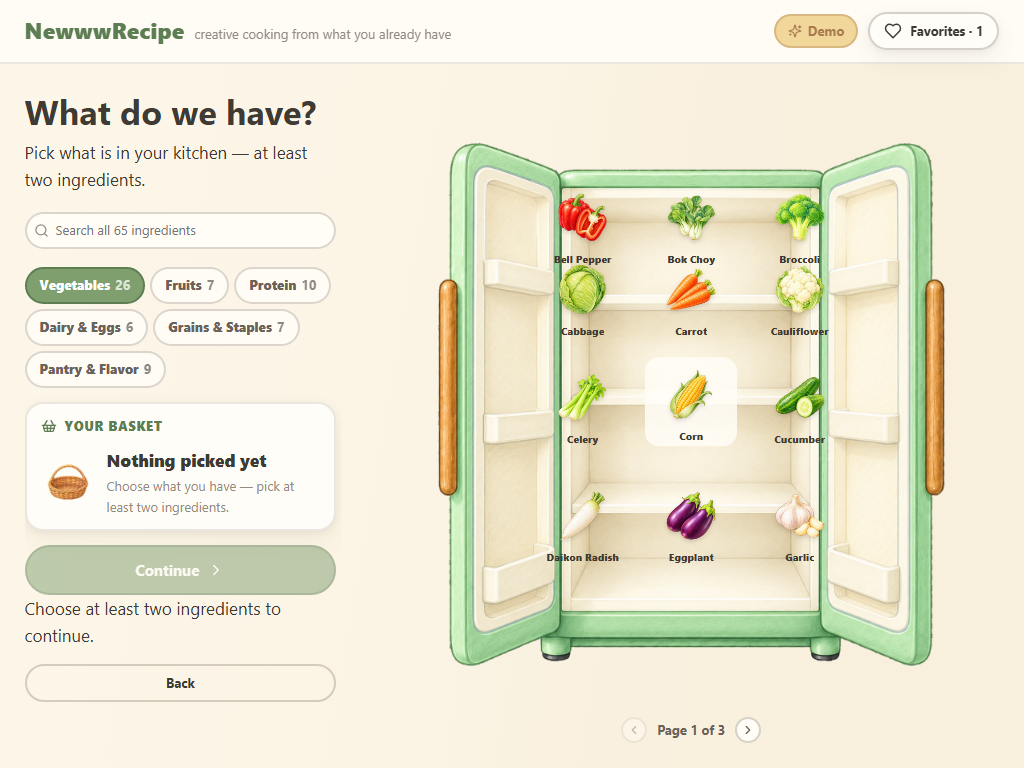
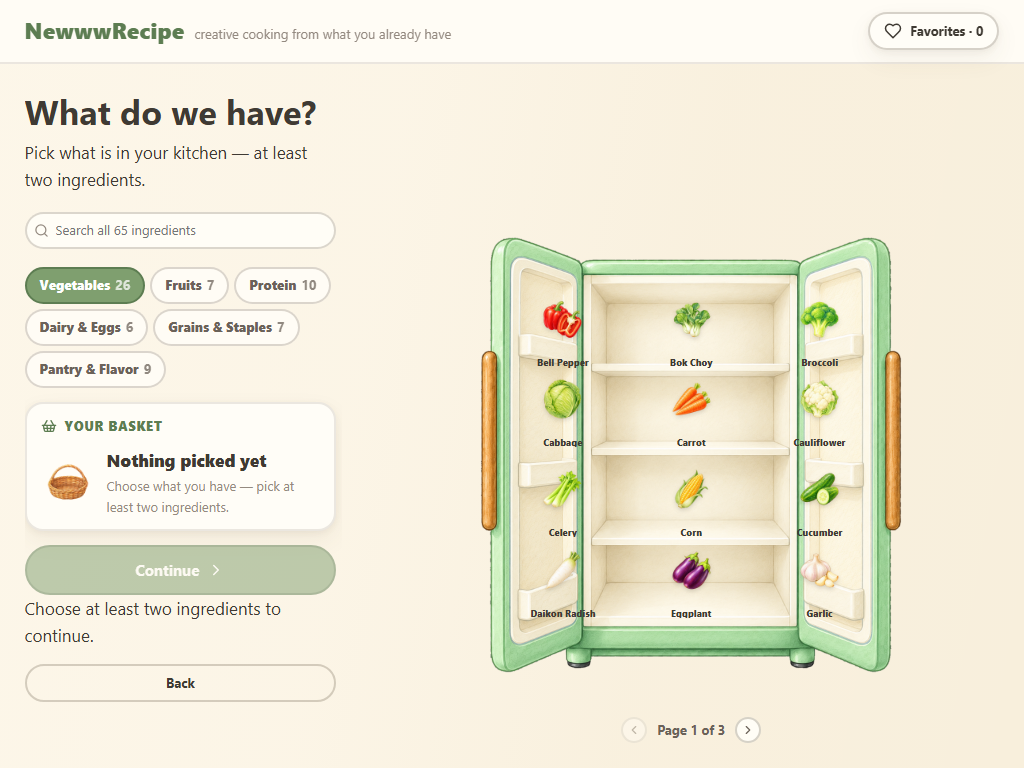
fix: align ingredients with refrigerator shelves
Replace the viewport-relative, letterboxed overlay with a single shared
coordinate system: a square 1:1 .fridge__frame wrapper renders the 1536x1536
fridge frames with object-fit:fill (no distortion), and .fridge__interior now
shares that same inset origin. Shelf anchor percentages (--shelf-1-y..4-y,
--cavity-left/right) were measured from the actual fridge_open_empty.png and
stored as named CSS custom properties.

Each of the four ingredient rows is bottom-anchored to its real shelf surface
(bottom: calc(100% - shelf_y + gap)) instead of being vertically centred on a
band, so art+label rest on the shelf with a small gap. Selected tiles keep an
identical layout box (box-sizing:border-box + inset ring; only the inner art
img scales subtly), so Chicken no longer grows or shifts. The same shelf
mapping is reused in Preferences.

Verification: Playwright geometric checks at 1440x900 and 1024x768 confirm
every row bottom edge matches its measured shelf surface (delta 0), 12 tiles
per page, and unchanged selection geometry; 31 frontend + 124 python tests
pass; typecheck/lint/build clean with no asset warnings.

Changed region(s): [[0.4062, 0.1875, 0.9375, 0.875], [0.75, 0.0, 0.8438, 0.0625]]

diff --git a/web/src/styles/global.css b/web/src/styles/global.css
@@ -332,14 +332,17 @@ button {
   min-width: 0;
 }
 
-/* All three frames share one bottom-centre anchor so the sequence never jumps. */
+/* Sized to the square frame so the glow pool and hit area track the artwork
+   exactly. The square .fridge__frame inside defines the real box. */
 .fridge-button {
   position: relative;
-  width: 100%;
-  height: 100%;
+  display: block;
+  width: var(--fridge-size);
+  max-width: 100%;
   padding: 0;
   background: none;
   border: 0;
+  line-height: 0;
   cursor: pointer;
 }
 
@@ -349,13 +352,10 @@ button {
 
 .fridge-frame {
   position: absolute;
-  bottom: 0;
-  left: 50%;
+  inset: 0;
   width: 100%;
   height: 100%;
-  object-fit: contain;
-  object-position: bottom center;
-  transform: translateX(-50%) scale(1);
+  object-fit: fill;
   opacity: 0;
   transition:
     opacity 260ms ease,
@@ -365,15 +365,15 @@ button {
 
 .fridge-frame.is-active {
   opacity: 1;
-  transform: translateX(-50%) scale(1);
+  transform: scale(1);
 }
 
 .fridge-frame--closed.is-active {
-  transform: translateX(-50%) scale(1);
+  transform: scale(1);
 }
 
 .fridge-frame--ajar.is-active {
-  transform: translateX(-50%) scale(1.015);
+  transform: scale(1.015);
 }
 
 .fridge-button:not(.is-open)::after {
@@ -404,7 +404,7 @@ button {
 
 .fridge-button:not(.is-open):hover .fridge-frame--closed.is-active,
 .fridge-button:not(.is-open):focus-visible .fridge-frame--closed.is-active {
-  transform: translateX(-50%) scale(1.03);
+  transform: scale(1.03);
 }
 
 .fridge-button:not(.is-open):hover {
@@ -428,16 +428,31 @@ button {
   }
 }
 
-/* The ingredient overlay is clipped to the illustrated cavity of fridge_open_empty.png.
-   Calibrated from the 1536x1536 source: cavity x 0.07->0.93, y 0.09->0.89; the four shelf
-   bands sit at image-y 0.226 / 0.343 / 0.518 / 0.712 (-> 17.2% / 31.7% / 53.5% / 77.5% of the
-   interior box). Everything inside is hidden until the fridge is open. */
+/* Square 1:1 stage that the rendered frames and the ingredient overlay share.
+   All three source PNGs are 1536x1536, so a square box + object-fit:fill maps
+   image pixels 1:1 onto the overlay's percentage coordinate system (no
+   letterboxing, no distortion). Shelf anchors below were measured from the
+   actual fridge_open_empty.png, expressed as full-image percentages:
+     cavity x: 9% -> 91%   shelf boards (image-y): 36.20 / 51.69 / 69.27 / 85.16 %
+   See the alignment fix commit for the measurement method. */
+.fridge__frame {
+  --cavity-left: 9%;
+  --cavity-right: 9%;
+  --shelf-1-y: 36.20%;
+  --shelf-2-y: 51.69%;
+  --shelf-3-y: 69.27%;
+  --shelf-4-y: 85.16%;
+  --shelf-gap: 1.4%;
+  --tile-art-h: calc(var(--fridge-size) * 0.10);
+  --tile-name-fs: calc(var(--fridge-size) * 0.018);
+  position: relative;
+  width: 100%;
+  aspect-ratio: 1 / 1;
+}
+
 .fridge__interior {
   position: absolute;
-  top: 9%;
-  bottom: 11%;
-  left: 7%;
-  right: 7%;
+  inset: 0;
   z-index: 3;
   opacity: 0;
   visibility: hidden;
@@ -752,51 +767,53 @@ button {
 
 .shelf__row {
   position: absolute;
-  left: 0;
-  right: 0;
+  left: var(--cavity-left);
+  right: var(--cavity-right);
   display: flex;
   justify-content: center;
-  align-items: center;
+  align-items: flex-end;
   gap: clamp(6px, 1.6vw, 20px);
-  transform: translateY(-50%);
+  transform: none;
 }
 
-/* Four rows aligned to the four drawn shelf bands of fridge_open_empty.png. */
+/* Each row is bottom-anchored to its physical shelf board (measured from the
+   PNG) plus a small gap, so ingredients rest ON the shelf rather than floating
+   in the middle of a compartment. No vertical centring. */
 .shelf__row:nth-child(1) {
-  top: 17.2%;
+  bottom: calc(100% - var(--shelf-1-y) + var(--shelf-gap));
 }
 .shelf__row:nth-child(2) {
-  top: 31.7%;
+  bottom: calc(100% - var(--shelf-2-y) + var(--shelf-gap));
 }
 .shelf__row:nth-child(3) {
-  top: 53.5%;
+  bottom: calc(100% - var(--shelf-3-y) + var(--shelf-gap));
 }
 .shelf__row:nth-child(4) {
-  top: 77.5%;
+  bottom: calc(100% - var(--shelf-4-y) + var(--shelf-gap));
 }
 
 .shelf__tile {
   position: relative;
+  box-sizing: border-box;
   display: flex;
   flex-direction: column;
   align-items: center;
   justify-content: flex-end;
-  gap: 4px;
-  width: clamp(60px, 9vw, 104px);
-  padding: 4px;
+  gap: 2px;
+  width: clamp(54px, calc(var(--fridge-size) * 0.22), 112px);
+  padding: 2px;
   background: transparent;
   border: 0;
   border-radius: 14px;
   cursor: pointer;
+  /* Geometry is identical selected or not — only colour/ring/inner-scale change. */
   transition:
-    transform 0.16s ease,
     background 0.16s ease,
     box-shadow 0.16s ease;
 }
 
 .shelf__tile:hover {
   background: rgba(255, 253, 247, 0.85);
-  transform: translateY(-3px);
 }
 
 .shelf__tile:focus-visible {
@@ -807,10 +824,10 @@ button {
 .shelf__tile.is-selected {
   background: var(--mint-soft);
   box-shadow: 0 3px 10px rgba(93, 125, 82, 0.3);
-  transform: translateY(-4px);
 }
 
-/* A clear selected ring so selection never relies on colour alone. */
+/* A clear selected ring so selection never relies on colour alone.
+   inset:0 + border-box keeps the layout box unchanged. */
 .shelf__tile.is-selected::after {
   content: '';
   position: absolute;
@@ -820,33 +837,43 @@ button {
   pointer-events: none;
 }
 
+/* Subtle inner scale only — the tile's outer box never moves or resizes. */
+.shelf__tile.is-selected .shelf__tile-art img {
+  transform: scale(1.04);
+}
+
 .shelf__tile-art {
   display: flex;
   align-items: flex-end;
   justify-content: center;
-  height: clamp(44px, 6.4vw, 74px);
+  height: var(--tile-art-h);
   width: 100%;
 }
 
 .shelf__tile-art img {
   max-width: 100%;
-  max-height: 100%;
   width: auto;
-  height: auto;
+  height: 100%;
   object-fit: contain;
   filter: drop-shadow(0 2px 2px rgba(60, 50, 40, 0.18));
   pointer-events: none;
+  transition: transform 0.16s ease;
 }
 
+/* Fixed label region so 1- and 2-line names share a baseline. */
 .shelf__tile-name {
-  font-size: clamp(10px, 1vw, 12.5px);
+  display: flex;
+  align-items: flex-end;
+  justify-content: center;
+  width: 100%;
+  font-size: var(--tile-name-fs);
   font-weight: 800;
-  line-height: 1.15;
+  line-height: 1.1;
   color: var(--ink);
   text-align: center;
   max-width: 100%;
-  /* Up to two centred lines — clipped, never truncated with an ellipsis. */
-  max-height: 2.3em;
+  height: calc(var(--tile-name-fs) * 2.2);
+  max-height: calc(var(--tile-name-fs) * 2.2);
   overflow: hidden;
   text-overflow: clip;
 }

diff --git a/web/src/components/IngredientShelf.test.tsx b/web/src/components/IngredientShelf.test.tsx
@@ -1,0 +1,90 @@
+import { render, screen } from '@testing-library/react'
+import { describe, expect, it } from 'vitest'
+import { readFileSync } from 'node:fs'
+import { resolve } from 'node:path'
+import { IngredientShelf } from './IngredientShelf'
+import { INGREDIENTS } from '../data/ingredients'
+
+const FIRST_PAGE = INGREDIENTS.slice(0, 12)
+
+describe('ingredient shelf — coordinate model', () => {
+  it('renders exactly four shelf rows anchored by named data-shelf attributes', () => {
+    render(<IngredientShelf items={FIRST_PAGE} selectedIds={[]} onToggle={() => {}} />)
+
+    const rows = screen.getAllByTestId(/^shelf-row-/)
+    expect(rows).toHaveLength(4)
+    expect(rows.map((r) => r.getAttribute('data-shelf'))).toEqual(['1', '2', '3', '4'])
+
+    // Rows carry no inline style — their position comes from centralized CSS
+    // custom properties, never ad hoc per-item coordinates.
+    for (const row of rows) {
+      expect(row.getAttribute('style')).toBeNull()
+      expect(row).toHaveClass('shelf__row')
+    }
+  })
+
+  it('keeps all 12 visible items associated with exactly one shelf row', () => {
+    render(<IngredientShelf items={FIRST_PAGE} selectedIds={[]} onToggle={() => {}} />)
+
+    const rows = screen.getAllByTestId(/^shelf-row-/)
+    const tilesPerRow = rows.map((r) => r.querySelectorAll('.shelf__tile').length)
+    expect(tilesPerRow).toEqual([3, 3, 3, 3])
+
+    const allTiles = document.querySelectorAll('.shelf__tile')
+    expect(allTiles).toHaveLength(12)
+
+    // Every tile lives inside exactly one shelf row (never floating free).
+    for (const tile of allTiles) {
+      expect(tile.closest('.shelf__row')).not.toBeNull()
+    }
+  })
+
+  it('keeps selected and unselected tiles in the identical structural box', () => {
+    const selectedId = FIRST_PAGE[0].id
+    const otherId = FIRST_PAGE[1].id
+    render(
+      <IngredientShelf items={FIRST_PAGE} selectedIds={[selectedId]} onToggle={() => {}} />,
+    )
+
+    const selected = screen.getByTestId(`tile-${selectedId}`)
+    const other = screen.getByTestId(`tile-${otherId}`)
+
+    // Same base class and same inner structure regardless of selection state.
+    for (const tile of [selected, other]) {
+      expect(tile).toHaveClass('shelf__tile')
+      expect(tile.querySelector('.shelf__tile-art')).not.toBeNull()
+      expect(tile.querySelector('.shelf__tile-name')).not.toBeNull()
+      // Geometry is identical: no inline style alters the box.
+      expect(tile.getAttribute('style')).toBeNull()
+    }
+
+    // Only the selected tile gains the is-selected state + pressed semantics.
+    expect(selected).toHaveClass('is-selected')
+    expect(selected).toHaveAttribute('aria-pressed', 'true')
+    expect(other).not.toHaveClass('is-selected')
+    expect(other).toHaveAttribute('aria-pressed', 'false')
+  })
+
+  it('centralizes shelf positions in CSS custom properties (bottom-anchored, not old top bands)', () => {
+    const css = readFileSync(resolve(process.cwd(), 'src/styles/global.css'), 'utf8')
+
+    // Measured, full-image-percentage shelf anchors must be present.
+    expect(css).toContain('--cavity-left: 9%')
+    expect(css).toContain('--shelf-1-y: 36.20%')
+    expect(css).toContain('--shelf-2-y: 51.69%')
+    expect(css).toContain('--shelf-3-y: 69.27%')
+    expect(css).toContain('--shelf-4-y: 85.16%')
+
+    // Rows must be bottom-anchored to those named anchors...
+    expect(css).toContain('bottom: calc(100% - var(--shelf-1-y)')
+    expect(css).toContain('bottom: calc(100% - var(--shelf-2-y)')
+    expect(css).toContain('bottom: calc(100% - var(--shelf-3-y)')
+    expect(css).toContain('bottom: calc(100% - var(--shelf-4-y)')
+
+    // ...and the old ad-hoc per-band top values must be gone from the shelf rows.
+    expect(css).not.toContain('top: 17.2%')
+    expect(css).not.toContain('top: 31.7%')
+    expect(css).not.toContain('top: 53.5%')
+    expect(css).not.toContain('top: 77.5%')
+  })
+})

diff --git a/web/src/App.test.tsx b/web/src/App.test.tsx
@@ -463,4 +463,36 @@ describe('favorites', () => {
     expect(empty).toHaveTextContent('No saved recipes yet.')
     expect(empty).toHaveTextContent('Your future favorites will live here.')
   })
+
+  describe('shelf coordinate system is reused across stages', () => {
+    it('keeps the same four-shelf mapping when switching to preferences', async () => {
+      const user = userEvent.setup()
+      installApiMock({ captured })
+      render(<App />)
+      await openFridge(user)
+      await pickIngredient(user, 'chicken', 'chicken')
+      await pickIngredient(user, 'coffee', 'coffee')
+      // Clear any search so the default 12-per-page shelf mapping is what we check.
+      fireEvent.change(screen.getByLabelText('Search ingredients by name'), { target: { value: '' } })
+      await user.click(screen.getByTestId('continue-button'))
+      await screen.findByTestId('preferences-panel')
+
+      // The fridge must not resize or swap its coordinate system for preferences.
+      const rows = screen.getAllByTestId(/^shelf-row-/)
+      expect(rows).toHaveLength(4)
+      expect(rows.map((r) => r.getAttribute('data-shelf')).sort()).toEqual([
+        '1',
+        '2',
+        '3',
+        '4',
+      ])
+
+      const tiles = document.querySelectorAll('.shelf__tile')
+      expect(tiles.length).toBe(12)
+      for (const tile of tiles) {
+        // Every visible ingredient is still tied to exactly one shelf row.
+        expect(tile.closest('.shelf__row')).not.toBeNull()
+      }
+    })
+  })
 })

diff --git a/web/src/components/IngredientShelf.tsx b/web/src/components/IngredientShelf.tsx
@@ -61,7 +61,14 @@ export function IngredientShelf({ items, selectedIds, onToggle }: IngredientShel
         <p className="shelf__empty">Nothing matches your search.</p>
       ) : (
         rows.map((row, rowIndex) => (
-          <div key={rowIndex} className="shelf__row" role="group" aria-label={`Shelf ${rowIndex + 1}`}>
+          <div
+            key={rowIndex}
+            className="shelf__row"
+            role="group"
+            aria-label={`Shelf ${rowIndex + 1}`}
+            data-shelf={rowIndex + 1}
+            data-testid={`shelf-row-${rowIndex + 1}`}
+          >
             {row.map((item) => (
               <IngredientTile
                 key={item.id}

diff --git a/web/src/components/Fridge.tsx b/web/src/components/Fridge.tsx
@@ -29,7 +29,7 @@ export function Fridge({ frame, interactive, onActivate, children }: FridgeProps
   const interiorVisible = frame === 'open' || frame === 'ajar'
 
   const frames = (
-    <>
+    <div className="fridge__frame">
       <img
         className={frameClass('closed', frame)}
         src={SCENE.fridgeClosed}
@@ -54,7 +54,7 @@ export function Fridge({ frame, interactive, onActivate, children }: FridgeProps
       >
         {children}
       </div>
-    </>
+    </div>
   )
 
   if (!interactive) {
